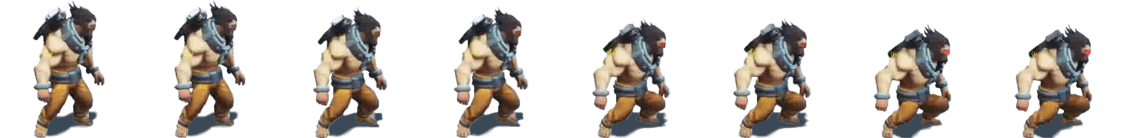
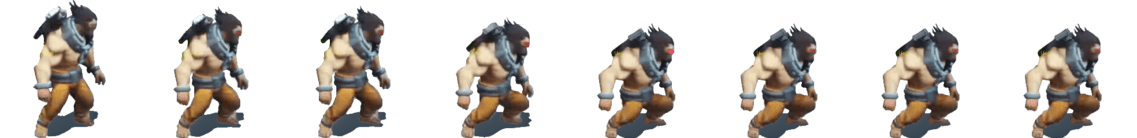
Add files via upload

diff --git a/game.js b/game.js
@@ -48,9 +48,9 @@ var game = new Phaser.Game(config);
 function preload() {
 
     this.load.image('sky', 'sky.png');
-    this.load.spritesheet('dude', 'dude.png', { frameWidth: 131, frameHeight: 138 });
+    this.load.spritesheet('dude', 'dude.png', { frameWidth: 128, frameHeight: 138 });
     this.load.spritesheet('jumpdude', 'jumpdude.png', { frameWidth: 131, frameHeight: 138 });
-    this.load.spritesheet('idledude', 'idledude.png', { frameWidth: 131, frameHeight: 138 });
+    this.load.spritesheet('idledude', 'idledude.png', { frameWidth: 131.2, frameHeight: 138 });
     this.load.image('ground', 'ground.png');
     this.load.image('wall', 'wall.png');
     this.load.image('platform', 'ground.png');
@@ -59,7 +59,7 @@ function preload() {
     this.load.spritesheet('bluebouncyenemy', 'bluebouncyenemy.png', { frameWidth: 128, frameHeight: 128 });
     this.load.spritesheet('redbouncyenemy', 'redbouncyenemy.png', { frameWidth: 128, frameHeight: 128 });
     this.load.image('purpleLaser', 'laser.png'); // Replace 'purpleLaser.png' with your actual purple laser image file
-    this.load.spritesheet('attack', 'attack.png', { frameWidth: 140.8, frameHeight: 138 });
+    this.load.spritesheet('attack', 'attack.png', { frameWidth: 142.1, frameHeight: 138 });
     this.load.image('leftButton', 'left.png');
     this.load.image('rightButton', 'right.png');
     this.load.image('jumpButton', 'jump.png');
@@ -512,7 +512,7 @@ this.anims.create({
         this.anims.create({
              key: 'idle',
              frames: this.anims.generateFrameNumbers('idledude', { start: 0, end: 14, first: 0 }),
-             frameRate: 40,
+             frameRate: 30,
              repeat: -1  // Set repeat to -1 for continuous looping
          });
          player.anims.play('idle');
